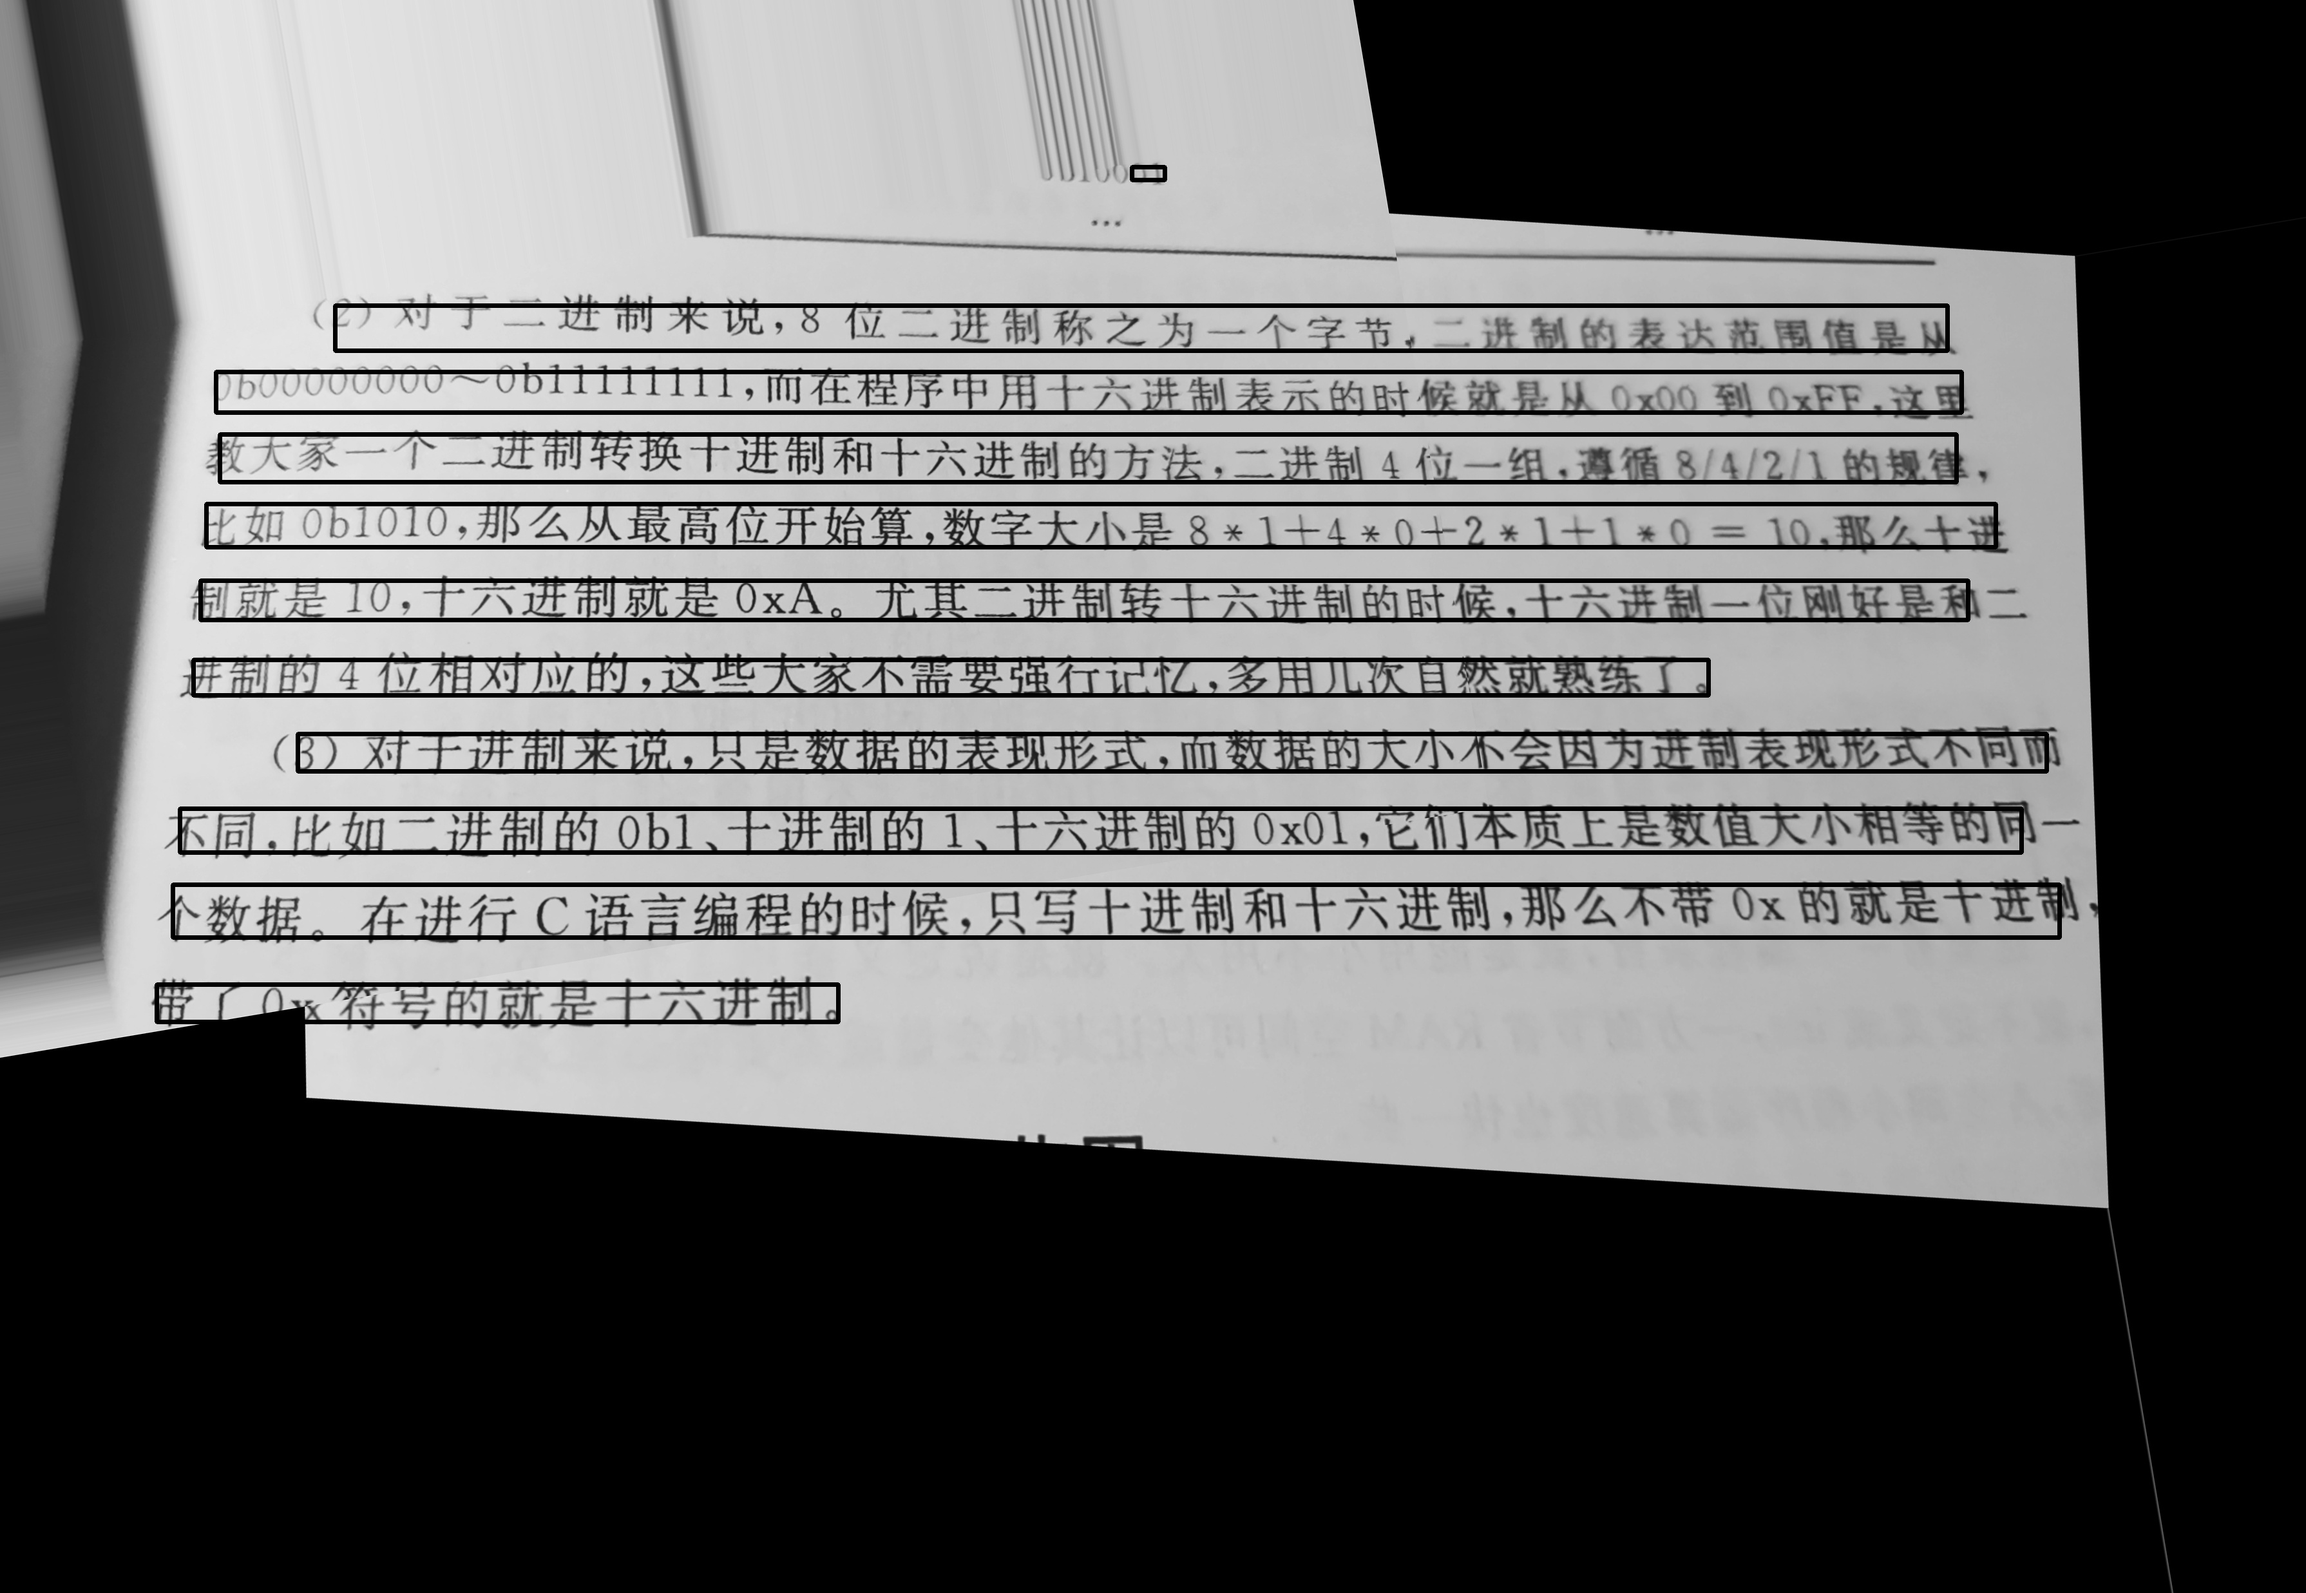
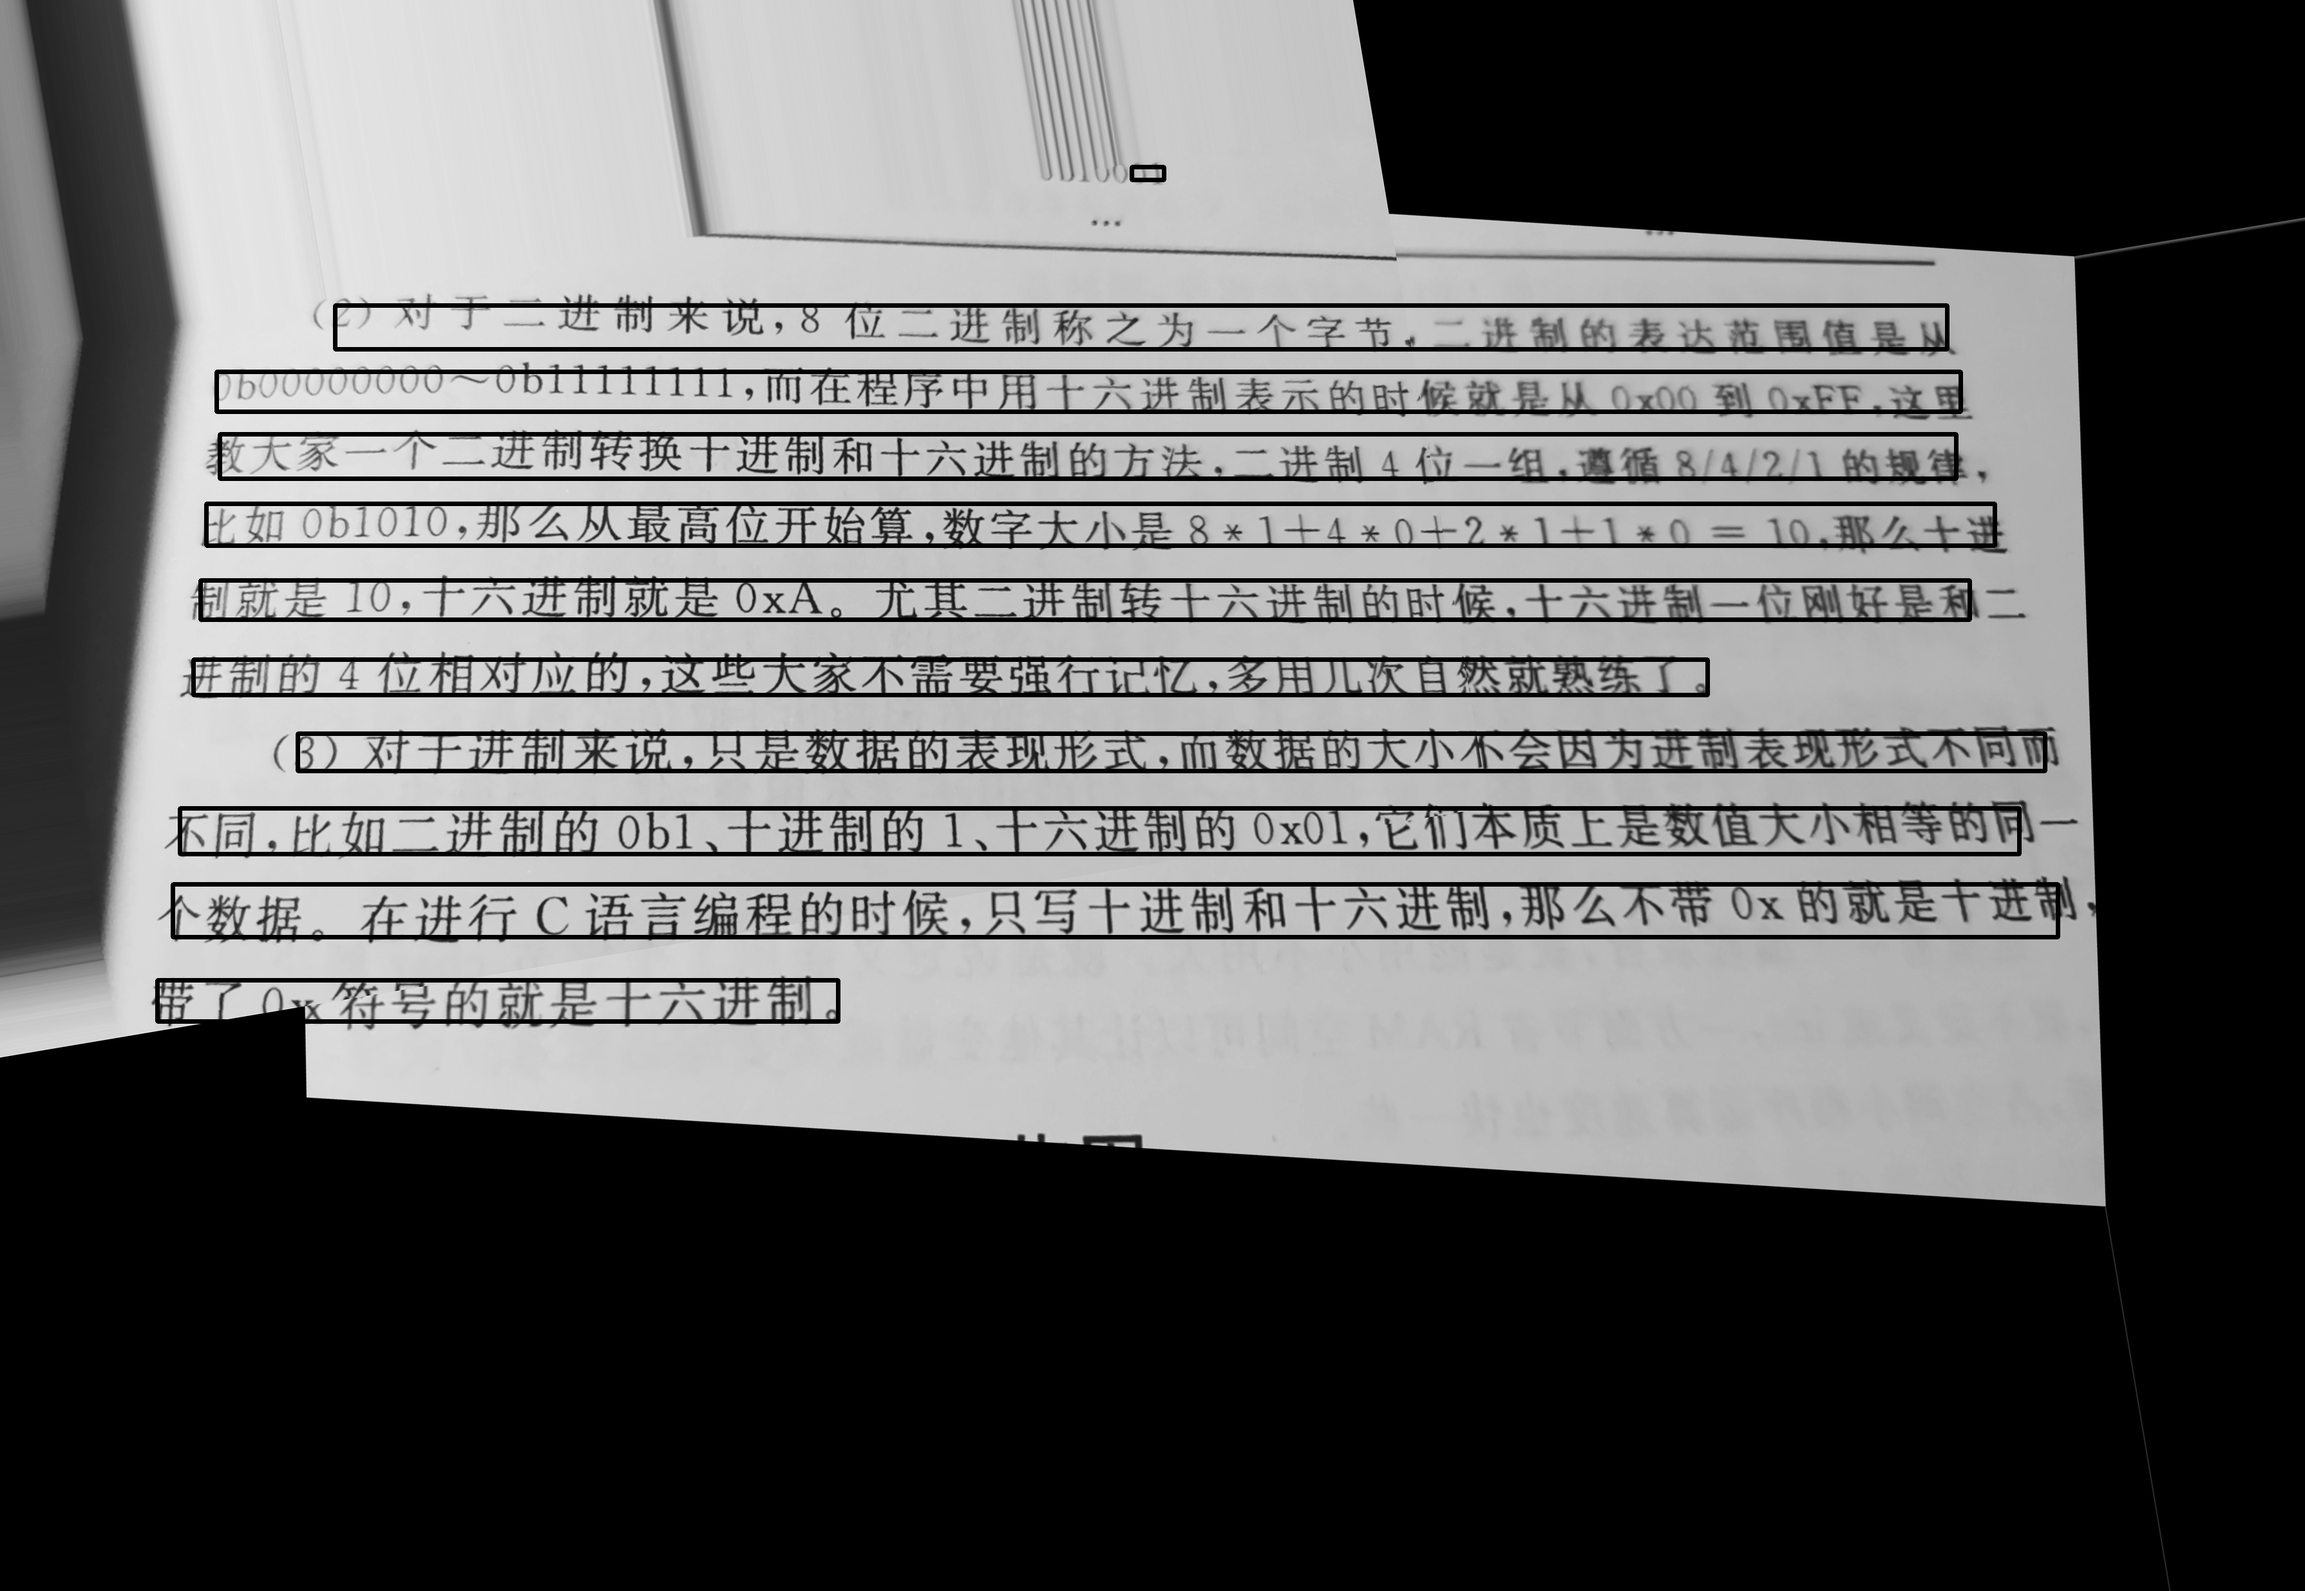
add outliers-screening, it will improve the recognition accuracy of some images

diff --git a/text_find.py b/text_find.py
@@ -3,6 +3,7 @@
 import cv2
 import numpy as np
 from simple_process import remove_the_bg
+from sklearn.ensemble import IsolationForest
 
 
 def find_local_maximums(num_rho, num_angle, threshold, accum):
@@ -179,7 +180,20 @@ def get_whole_roi(img_gray, pts, img_w, img_h):
     return img_new
 
 
-def detect(img_gray, norm=1.2):
+def screen_outliers(pts):
+    # 随机森林剔除异常点
+    model_iforest = IsolationForest(n_estimators=100,
+                                    max_samples="auto",
+                                    contamination=0.1,
+                                    max_features=0.1)
+    model_iforest.fit(pts)
+    exception_pts_anomaly = model_iforest.predict(pts)
+    pts_new = []
+    [pts_new.append(pts[i]) for i in range(len(pts)) if exception_pts_anomaly[i] == 1]
+    return np.array(pts_new, np.int)
+
+
+def detect(img_gray, norm=1.2, SCREEN_OR_NOT=0):
     # 自适应直方图均衡
     clahe = cv2.createCLAHE(clipLimit=2.0, tileGridSize=(5, 5))
     img_gray = clahe.apply(img_gray)
@@ -204,11 +218,17 @@ def detect(img_gray, norm=1.2):
     # 使用NMS算法抑制MSER检测效果
     boxes = non_max_suppress(np.array(boxes))
 
-    # 找到boxes的中心点并连线
+    # 找到boxes的中心点
     pts = np.zeros((len(boxes), 2))
     pts[:, 0] = (boxes[:, 0] + boxes[:, 2]) / 2
     pts[:, 1] = (boxes[:, 1] + boxes[:, 3]) / 2
     pts = pts.astype(np.int)
+
+    # 随机森林剔除异常点，可选
+    if SCREEN_OR_NOT == "y":
+        pts = screen_outliers(pts)
+    elif SCREEN_OR_NOT == "N":
+        print("We will not screen the outliers.")
 
     # get the text roi
     img_text_whole_roi = get_whole_roi(img_gray, pts, img_w, img_h)

diff --git a/demo.py b/demo.py
@@ -20,16 +20,17 @@ def main():
     # 将两个图片拼接在一起
     print("----matching----")
     img_match = get_match_img(img_left, img_right)
-    cv2.imwrite("./match_result/" + str(number) + ".jpg", img_match)
+    # cv2.imwrite("./match_result/" + str(number) + ".jpg", img_match)
 
     # 利用直线检测进行文字方向矫正，使得文字正向
     print("----rotating----")
     img_rotated = rotate_img(img_match)
-    cv2.imwrite("./rotated_result/" + str(number) + ".jpg", img_rotated)
+    # cv2.imwrite("./rotated_result/" + str(number) + ".jpg", img_rotated)
 
     # 利用MSER检测找到文字大致范围并框选出来
     print("----finding the text----")
-    text_area, pts = detect(img_rotated, norm=2)
+    SCREEN_OR_NOT = input("Add outliers-screening or not: y/N ")
+    text_area, pts = detect(img_rotated, norm=2, SCREEN_OR_NOT=SCREEN_OR_NOT)
     img_text_area = get_roi(img_rotated, text_area, pts)
     cv2.imwrite("./find_text_result/" + str(number) + ".jpg", img_text_area)
 
